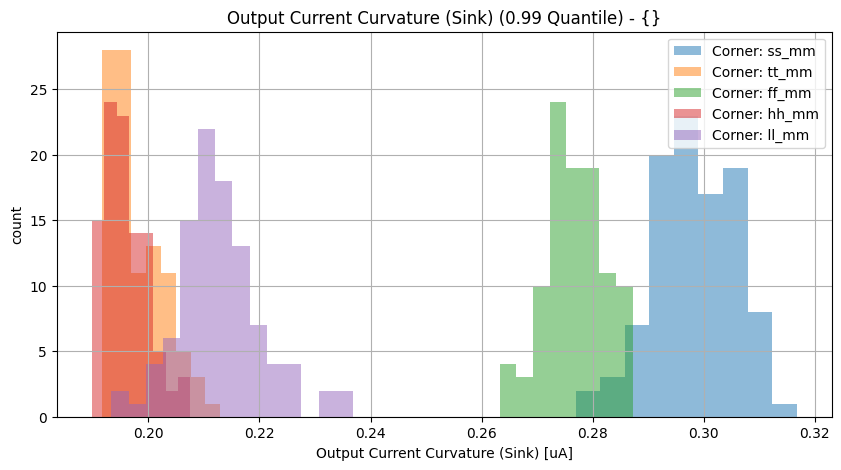
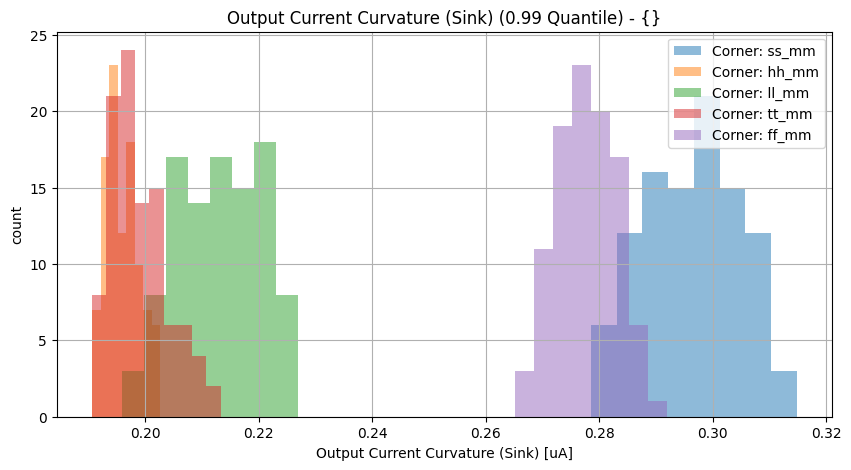
Jenkins update

diff --git a/vthref_tt/vthref/Readme.md b/vthref_tt/vthref/Readme.md
@@ -1,5 +1,6 @@
-04.09.2024, 10:20:07
+17.09.2024, 19:23:09
 
+<br>
 # Vth Current Reference
 
 10 uA current reference with source- and sink-port.
@@ -9,6 +10,15 @@
 <br>
 
 [🔗 Schematics](vthref_sch.pdf)<br>
+<details><summary>Show Tool Versions...</summary>
+
+xschem: 3.4.5<br>
+ngspice: 41<br>
+magic: 8.3.486<br>
+netgen: 1.5.277<br>
+openpdk: 1.0.493<br>
+</details><br>
+
 
 # LVS
 LVS-state: Netlists match uniquely.<br>
@@ -40,8 +50,8 @@ LVS-state: Netlists match uniquely.<br>
 
 | Parameter | Min (Spec. / Sim.) |      | Max (Sim. / Spec.) | Unit | Checks (total/pass/fail/NaN) | Comment |
 | :-------- | -----------------: | :--: | :----------------- | :--- | :--------------------------- | ------- |
-| Output Current Curvature (Sink) | 0.0 / 0.19 | <svg height="20" width="150"><polyline points="3.0,3,3.0,17,147.0,17,147.0,3" style="fill:none;stroke:gray;stroke-width:1" /><polyline points="75.0,10.0,75.0,17" style="fill:none;stroke:gray;stroke-width:1" /><polyline points="30.341798400000002,10.0,48.6072624,10.0" style="stroke:green;stroke-width:2" /><circle cx="30.341798400000002" cy="10.0" r="3" style="fill:green;stroke:green;stroke-width:0" /><circle cx="48.6072624" cy="10.0" r="3" style="fill:green;stroke:green;stroke-width:0" /></svg> | 0.317 / 1.0 | uA | 500/100.0%/0.0%/0.0% |  |
-| Output Current Curvature (Source) | 0.0 / 0.192 | <svg height="20" width="150"><polyline points="3.0,3,3.0,17,147.0,17,147.0,3" style="fill:none;stroke:gray;stroke-width:1" /><polyline points="75.0,10.0,75.0,17" style="fill:none;stroke:gray;stroke-width:1" /><polyline points="30.637128,10.0,48.435844800000005,10.0" style="stroke:green;stroke-width:2" /><circle cx="30.637128" cy="10.0" r="3" style="fill:green;stroke:green;stroke-width:0" /><circle cx="48.435844800000005" cy="10.0" r="3" style="fill:green;stroke:green;stroke-width:0" /></svg> | 0.316 / 1.0 | uA | 500/100.0%/0.0%/0.0% |  |
+| Output Current Curvature (Sink) | 0.0 / 0.191 | <svg height="20" width="150"><polyline points="3.0,3,3.0,17,147.0,17,147.0,3" style="fill:none;stroke:gray;stroke-width:1" /><polyline points="75.0,10.0,75.0,17" style="fill:none;stroke:gray;stroke-width:1" /><polyline points="30.4459968,10.0,48.3344976,10.0" style="stroke:green;stroke-width:2" /><circle cx="30.4459968" cy="10.0" r="3" style="fill:green;stroke:green;stroke-width:0" /><circle cx="48.3344976" cy="10.0" r="3" style="fill:green;stroke:green;stroke-width:0" /></svg> | 0.315 / 1.0 | uA | 500/100.0%/0.0%/0.0% |  |
+| Output Current Curvature (Source) | 0.0 / 0.192 | <svg height="20" width="150"><polyline points="3.0,3,3.0,17,147.0,17,147.0,3" style="fill:none;stroke:gray;stroke-width:1" /><polyline points="75.0,10.0,75.0,17" style="fill:none;stroke:gray;stroke-width:1" /><polyline points="30.6632064,10.0,48.285177600000004,10.0" style="stroke:green;stroke-width:2" /><circle cx="30.6632064" cy="10.0" r="3" style="fill:green;stroke:green;stroke-width:0" /><circle cx="48.285177600000004" cy="10.0" r="3" style="fill:green;stroke:green;stroke-width:0" /></svg> | 0.314 / 1.0 | uA | 500/100.0%/0.0%/0.0% |  |
 
 <br>
 
@@ -60,17 +70,10 @@ LVS-state: Netlists match uniquely.<br>
 
 | Parameter | Min (Spec. / Sim.) |      | Max (Sim. / Spec.) | Unit | Checks (total/pass/fail/NaN) | Comment |
 | :-------- | -----------------: | :--: | :----------------- | :--- | :--------------------------- | ------- |
-| Output Current Curvature (Sink) | 0.0 / 0.193 | <svg height="20" width="150"><polyline points="3.0,3,3.0,17,72.66193642767786,17,72.66193642767786,3" style="fill:none;stroke:gray;stroke-width:1" /><polyline points="37.83096821383893,10.0,37.83096821383893,17" style="fill:none;stroke:gray;stroke-width:1" /><polyline points="16.47684698465406,10.0,147.0,10.0" style="stroke:red;stroke-width:2" /><circle cx="16.47684698465406" cy="10.0" r="3" style="fill:red;stroke:red;stroke-width:0" /><circle cx="147.0" cy="10.0" r="3" style="fill:red;stroke:red;stroke-width:0" /></svg> | 2.067 / 1.0 | uA | 500/99.8%/0.2%/0.0% |  |
-| Output Current Curvature (Source) | 0.0 / 0.194 | <svg height="20" width="150"><polyline points="3.0,3,3.0,17,74.30068290209624,17,74.30068290209624,3" style="fill:none;stroke:gray;stroke-width:1" /><polyline points="38.65034145104812,10.0,38.65034145104812,17" style="fill:none;stroke:gray;stroke-width:1" /><polyline points="16.825594568472425,10.0,147.0,10.0" style="stroke:red;stroke-width:2" /><circle cx="16.825594568472425" cy="10.0" r="3" style="fill:red;stroke:red;stroke-width:0" /><circle cx="147.0" cy="10.0" r="3" style="fill:red;stroke:red;stroke-width:0" /></svg> | 2.02 / 1.0 | uA | 500/99.8%/0.2%/0.0% |  |
+| Output Current Curvature (Sink) | 0.0 / 0.193 | <svg height="20" width="150"><polyline points="3.0,3,3.0,17,147.0,17,147.0,3" style="fill:none;stroke:gray;stroke-width:1" /><polyline points="75.0,10.0,75.0,17" style="fill:none;stroke:gray;stroke-width:1" /><polyline points="30.8020368,10.0,138.7160256,10.0" style="stroke:green;stroke-width:2" /><circle cx="30.8020368" cy="10.0" r="3" style="fill:green;stroke:green;stroke-width:0" /><circle cx="138.7160256" cy="10.0" r="3" style="fill:green;stroke:green;stroke-width:0" /></svg> | 0.942 / 1.0 | uA | 500/100.0%/0.0%/0.0% |  |
+| Output Current Curvature (Source) | 0.0 / 0.193 | <svg height="20" width="150"><polyline points="3.0,3,3.0,17,147.0,17,147.0,3" style="fill:none;stroke:gray;stroke-width:1" /><polyline points="75.0,10.0,75.0,17" style="fill:none;stroke:gray;stroke-width:1" /><polyline points="30.852408,10.0,145.4854224,10.0" style="stroke:green;stroke-width:2" /><circle cx="30.852408" cy="10.0" r="3" style="fill:green;stroke:green;stroke-width:0" /><circle cx="145.4854224" cy="10.0" r="3" style="fill:green;stroke:green;stroke-width:0" /></svg> | 0.989 / 1.0 | uA | 500/100.0%/0.0%/0.0% |  |
 
-<details><summary>Show specification violation details...</summary>
-
-> **FAIL:** Specification violation for parameter "Output Current Curvature (Sink)":<br>
-> **FAIL:** group:ff_mm file:work/sim/vthref/vthref_tb.4_dcext/batch_4/ff_mm/dc.csv Index:4 <br>
-
-> **FAIL:** Specification violation for parameter "Output Current Curvature (Source)":<br>
-> **FAIL:** group:ff_mm file:work/sim/vthref/vthref_tb.4_dcext/batch_4/ff_mm/dc.csv Index:4 <br>
-</details><br>
+<br>
 
 
 # PERFORMANCE CHARACTERISTICS

diff --git a/vthref_tt/vthref/specReport.md b/vthref_tt/vthref/specReport.md
@@ -22,8 +22,8 @@
 
 | Parameter | Min (Spec. / Sim.) |      | Max (Sim. / Spec.) | Unit | Checks (total/pass/fail/NaN) | Comment |
 | :-------- | -----------------: | :--: | :----------------- | :--- | :--------------------------- | ------- |
-| Output Current Curvature (Sink) | 0.0 / 0.19 | <svg height="20" width="150"><polyline points="3.0,3,3.0,17,147.0,17,147.0,3" style="fill:none;stroke:gray;stroke-width:1" /><polyline points="75.0,10.0,75.0,17" style="fill:none;stroke:gray;stroke-width:1" /><polyline points="30.341798400000002,10.0,48.6072624,10.0" style="stroke:green;stroke-width:2" /><circle cx="30.341798400000002" cy="10.0" r="3" style="fill:green;stroke:green;stroke-width:0" /><circle cx="48.6072624" cy="10.0" r="3" style="fill:green;stroke:green;stroke-width:0" /></svg> | 0.317 / 1.0 | uA | 500/100.0%/0.0%/0.0% |  |
-| Output Current Curvature (Source) | 0.0 / 0.192 | <svg height="20" width="150"><polyline points="3.0,3,3.0,17,147.0,17,147.0,3" style="fill:none;stroke:gray;stroke-width:1" /><polyline points="75.0,10.0,75.0,17" style="fill:none;stroke:gray;stroke-width:1" /><polyline points="30.637128,10.0,48.435844800000005,10.0" style="stroke:green;stroke-width:2" /><circle cx="30.637128" cy="10.0" r="3" style="fill:green;stroke:green;stroke-width:0" /><circle cx="48.435844800000005" cy="10.0" r="3" style="fill:green;stroke:green;stroke-width:0" /></svg> | 0.316 / 1.0 | uA | 500/100.0%/0.0%/0.0% |  |
+| Output Current Curvature (Sink) | 0.0 / 0.191 | <svg height="20" width="150"><polyline points="3.0,3,3.0,17,147.0,17,147.0,3" style="fill:none;stroke:gray;stroke-width:1" /><polyline points="75.0,10.0,75.0,17" style="fill:none;stroke:gray;stroke-width:1" /><polyline points="30.4459968,10.0,48.3344976,10.0" style="stroke:green;stroke-width:2" /><circle cx="30.4459968" cy="10.0" r="3" style="fill:green;stroke:green;stroke-width:0" /><circle cx="48.3344976" cy="10.0" r="3" style="fill:green;stroke:green;stroke-width:0" /></svg> | 0.315 / 1.0 | uA | 500/100.0%/0.0%/0.0% |  |
+| Output Current Curvature (Source) | 0.0 / 0.192 | <svg height="20" width="150"><polyline points="3.0,3,3.0,17,147.0,17,147.0,3" style="fill:none;stroke:gray;stroke-width:1" /><polyline points="75.0,10.0,75.0,17" style="fill:none;stroke:gray;stroke-width:1" /><polyline points="30.6632064,10.0,48.285177600000004,10.0" style="stroke:green;stroke-width:2" /><circle cx="30.6632064" cy="10.0" r="3" style="fill:green;stroke:green;stroke-width:0" /><circle cx="48.285177600000004" cy="10.0" r="3" style="fill:green;stroke:green;stroke-width:0" /></svg> | 0.314 / 1.0 | uA | 500/100.0%/0.0%/0.0% |  |
 
 <br>
 
@@ -42,15 +42,8 @@
 
 | Parameter | Min (Spec. / Sim.) |      | Max (Sim. / Spec.) | Unit | Checks (total/pass/fail/NaN) | Comment |
 | :-------- | -----------------: | :--: | :----------------- | :--- | :--------------------------- | ------- |
-| Output Current Curvature (Sink) | 0.0 / 0.193 | <svg height="20" width="150"><polyline points="3.0,3,3.0,17,72.66193642767786,17,72.66193642767786,3" style="fill:none;stroke:gray;stroke-width:1" /><polyline points="37.83096821383893,10.0,37.83096821383893,17" style="fill:none;stroke:gray;stroke-width:1" /><polyline points="16.47684698465406,10.0,147.0,10.0" style="stroke:red;stroke-width:2" /><circle cx="16.47684698465406" cy="10.0" r="3" style="fill:red;stroke:red;stroke-width:0" /><circle cx="147.0" cy="10.0" r="3" style="fill:red;stroke:red;stroke-width:0" /></svg> | 2.067 / 1.0 | uA | 500/99.8%/0.2%/0.0% |  |
-| Output Current Curvature (Source) | 0.0 / 0.194 | <svg height="20" width="150"><polyline points="3.0,3,3.0,17,74.30068290209624,17,74.30068290209624,3" style="fill:none;stroke:gray;stroke-width:1" /><polyline points="38.65034145104812,10.0,38.65034145104812,17" style="fill:none;stroke:gray;stroke-width:1" /><polyline points="16.825594568472425,10.0,147.0,10.0" style="stroke:red;stroke-width:2" /><circle cx="16.825594568472425" cy="10.0" r="3" style="fill:red;stroke:red;stroke-width:0" /><circle cx="147.0" cy="10.0" r="3" style="fill:red;stroke:red;stroke-width:0" /></svg> | 2.02 / 1.0 | uA | 500/99.8%/0.2%/0.0% |  |
+| Output Current Curvature (Sink) | 0.0 / 0.193 | <svg height="20" width="150"><polyline points="3.0,3,3.0,17,147.0,17,147.0,3" style="fill:none;stroke:gray;stroke-width:1" /><polyline points="75.0,10.0,75.0,17" style="fill:none;stroke:gray;stroke-width:1" /><polyline points="30.8020368,10.0,138.7160256,10.0" style="stroke:green;stroke-width:2" /><circle cx="30.8020368" cy="10.0" r="3" style="fill:green;stroke:green;stroke-width:0" /><circle cx="138.7160256" cy="10.0" r="3" style="fill:green;stroke:green;stroke-width:0" /></svg> | 0.942 / 1.0 | uA | 500/100.0%/0.0%/0.0% |  |
+| Output Current Curvature (Source) | 0.0 / 0.193 | <svg height="20" width="150"><polyline points="3.0,3,3.0,17,147.0,17,147.0,3" style="fill:none;stroke:gray;stroke-width:1" /><polyline points="75.0,10.0,75.0,17" style="fill:none;stroke:gray;stroke-width:1" /><polyline points="30.852408,10.0,145.4854224,10.0" style="stroke:green;stroke-width:2" /><circle cx="30.852408" cy="10.0" r="3" style="fill:green;stroke:green;stroke-width:0" /><circle cx="145.4854224" cy="10.0" r="3" style="fill:green;stroke:green;stroke-width:0" /></svg> | 0.989 / 1.0 | uA | 500/100.0%/0.0%/0.0% |  |
 
-<details><summary>Show specification violation details...</summary>
-
-> **FAIL:** Specification violation for parameter "Output Current Curvature (Sink)":<br>
-> **FAIL:** group:ff_mm file:work/sim/vthref/vthref_tb.4_dcext/batch_4/ff_mm/dc.csv Index:4 <br>
-
-> **FAIL:** Specification violation for parameter "Output Current Curvature (Source)":<br>
-> **FAIL:** group:ff_mm file:work/sim/vthref/vthref_tb.4_dcext/batch_4/ff_mm/dc.csv Index:4 <br>
-</details><br>
+<br>
 

diff --git a/vthref_tt/vthref/docReport.md b/vthref_tt/vthref/docReport.md
@@ -1,3 +1,6 @@
+17.09.2024, 19:23:09
+
+<br>
 # Vth Current Reference
 
 10 uA current reference with source- and sink-port.
@@ -7,3 +10,12 @@
 <br>
 
 [🔗 Schematics](vthref_sch.pdf)<br>
+<details><summary>Show Tool Versions...</summary>
+
+xschem: 3.4.5<br>
+ngspice: 41<br>
+magic: 8.3.486<br>
+netgen: 1.5.277<br>
+openpdk: 1.0.493<br>
+</details><br>
+

diff --git a/sar8/tg/Readme.md b/sar8/tg/Readme.md
@@ -1,5 +1,3 @@
-04.09.2024, 10:20:07
-
 # ADC Transmission Gate / Sample Switch
 
 Sample switch / transmission gate for 8-bit ADC.

diff --git a/vthref/vthref/Readme.md b/vthref/vthref/Readme.md
@@ -1,5 +1,3 @@
-04.09.2024, 10:20:07
-
 # Vth Current Reference
 
 10 uA current reference with source- and sink-port.

diff --git a/bmbg/bmbgota/Readme.md b/bmbg/bmbgota/Readme.md
@@ -1,5 +1,3 @@
-04.09.2024, 10:20:07
-
 # Beta-Multiplier Bandgap OTA
 
 OTA for Beta-Multiplier Bandgap.

diff --git a/tt08/tt08/Readme.md b/tt08/tt08/Readme.md
@@ -1,5 +1,3 @@
-04.09.2024, 10:20:07
-
 # Tiny Tapeout 8
 
 Analog building-blocks for Tiny Tapeout 8:

diff --git a/bmbg/bmbg/Readme.md b/bmbg/bmbg/Readme.md
@@ -1,5 +1,3 @@
-04.09.2024, 10:20:07
-
 # Beta-Multiplier Bandgap
 
 Beta-Multiplier Bandgap.

diff --git a/riosc/riosc/Readme.md b/riosc/riosc/Readme.md
@@ -1,5 +1,3 @@
-04.09.2024, 10:20:07
-
 # Ring Oscillator
 
 Ring oscillator with enable pin.

diff --git a/sar8/cmp/Readme.md b/sar8/cmp/Readme.md
@@ -1,5 +1,3 @@
-04.09.2024, 10:20:07
-
 # ADC Comparator
 
 Comparator for 8-bit ADC.

diff --git a/ldo/ldo/Readme.md b/ldo/ldo/Readme.md
@@ -1,5 +1,3 @@
-04.09.2024, 10:20:07
-
 # 1.8 V LDO
 
 1.8 V linear regulator.

diff --git a/ldo/ldoota/Readme.md b/ldo/ldoota/Readme.md
@@ -1,5 +1,3 @@
-04.09.2024, 10:20:07
-
 # LDO OP
 
 OpAmp used in LDO.
